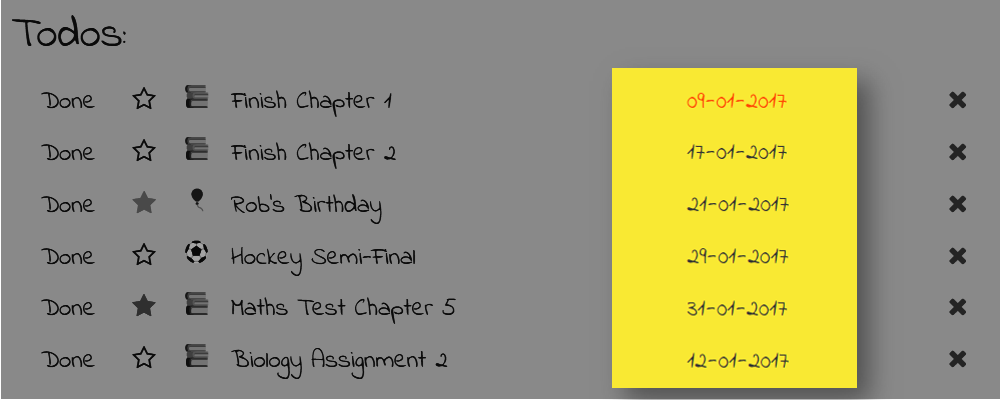
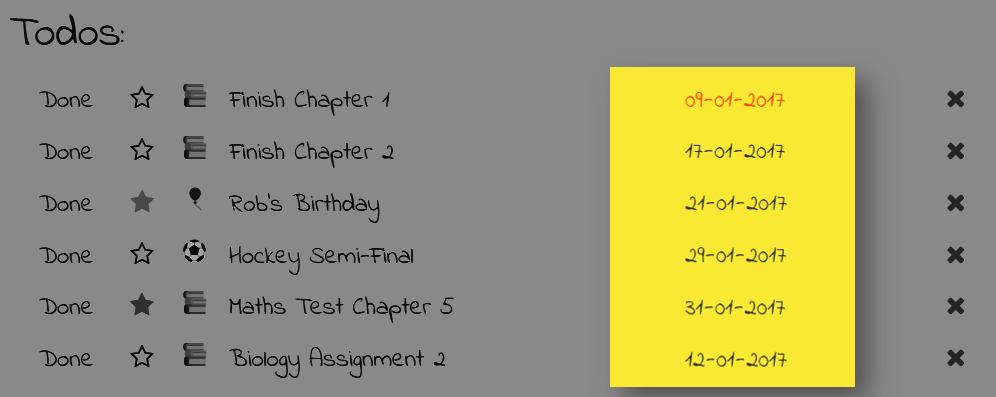
changed bg to white

diff --git a/public/css/main.scss b/public/css/main.scss
@@ -9,14 +9,8 @@
 // -------------------------
 
 body {
-
-  background-color: #6b92b9;
+  background-color: #FFFFFF;
 }
-
-main {
-  background: url("../img/yellowpattern.png") repeat;
-}
-
 
 // Panels
 // -------------------------
